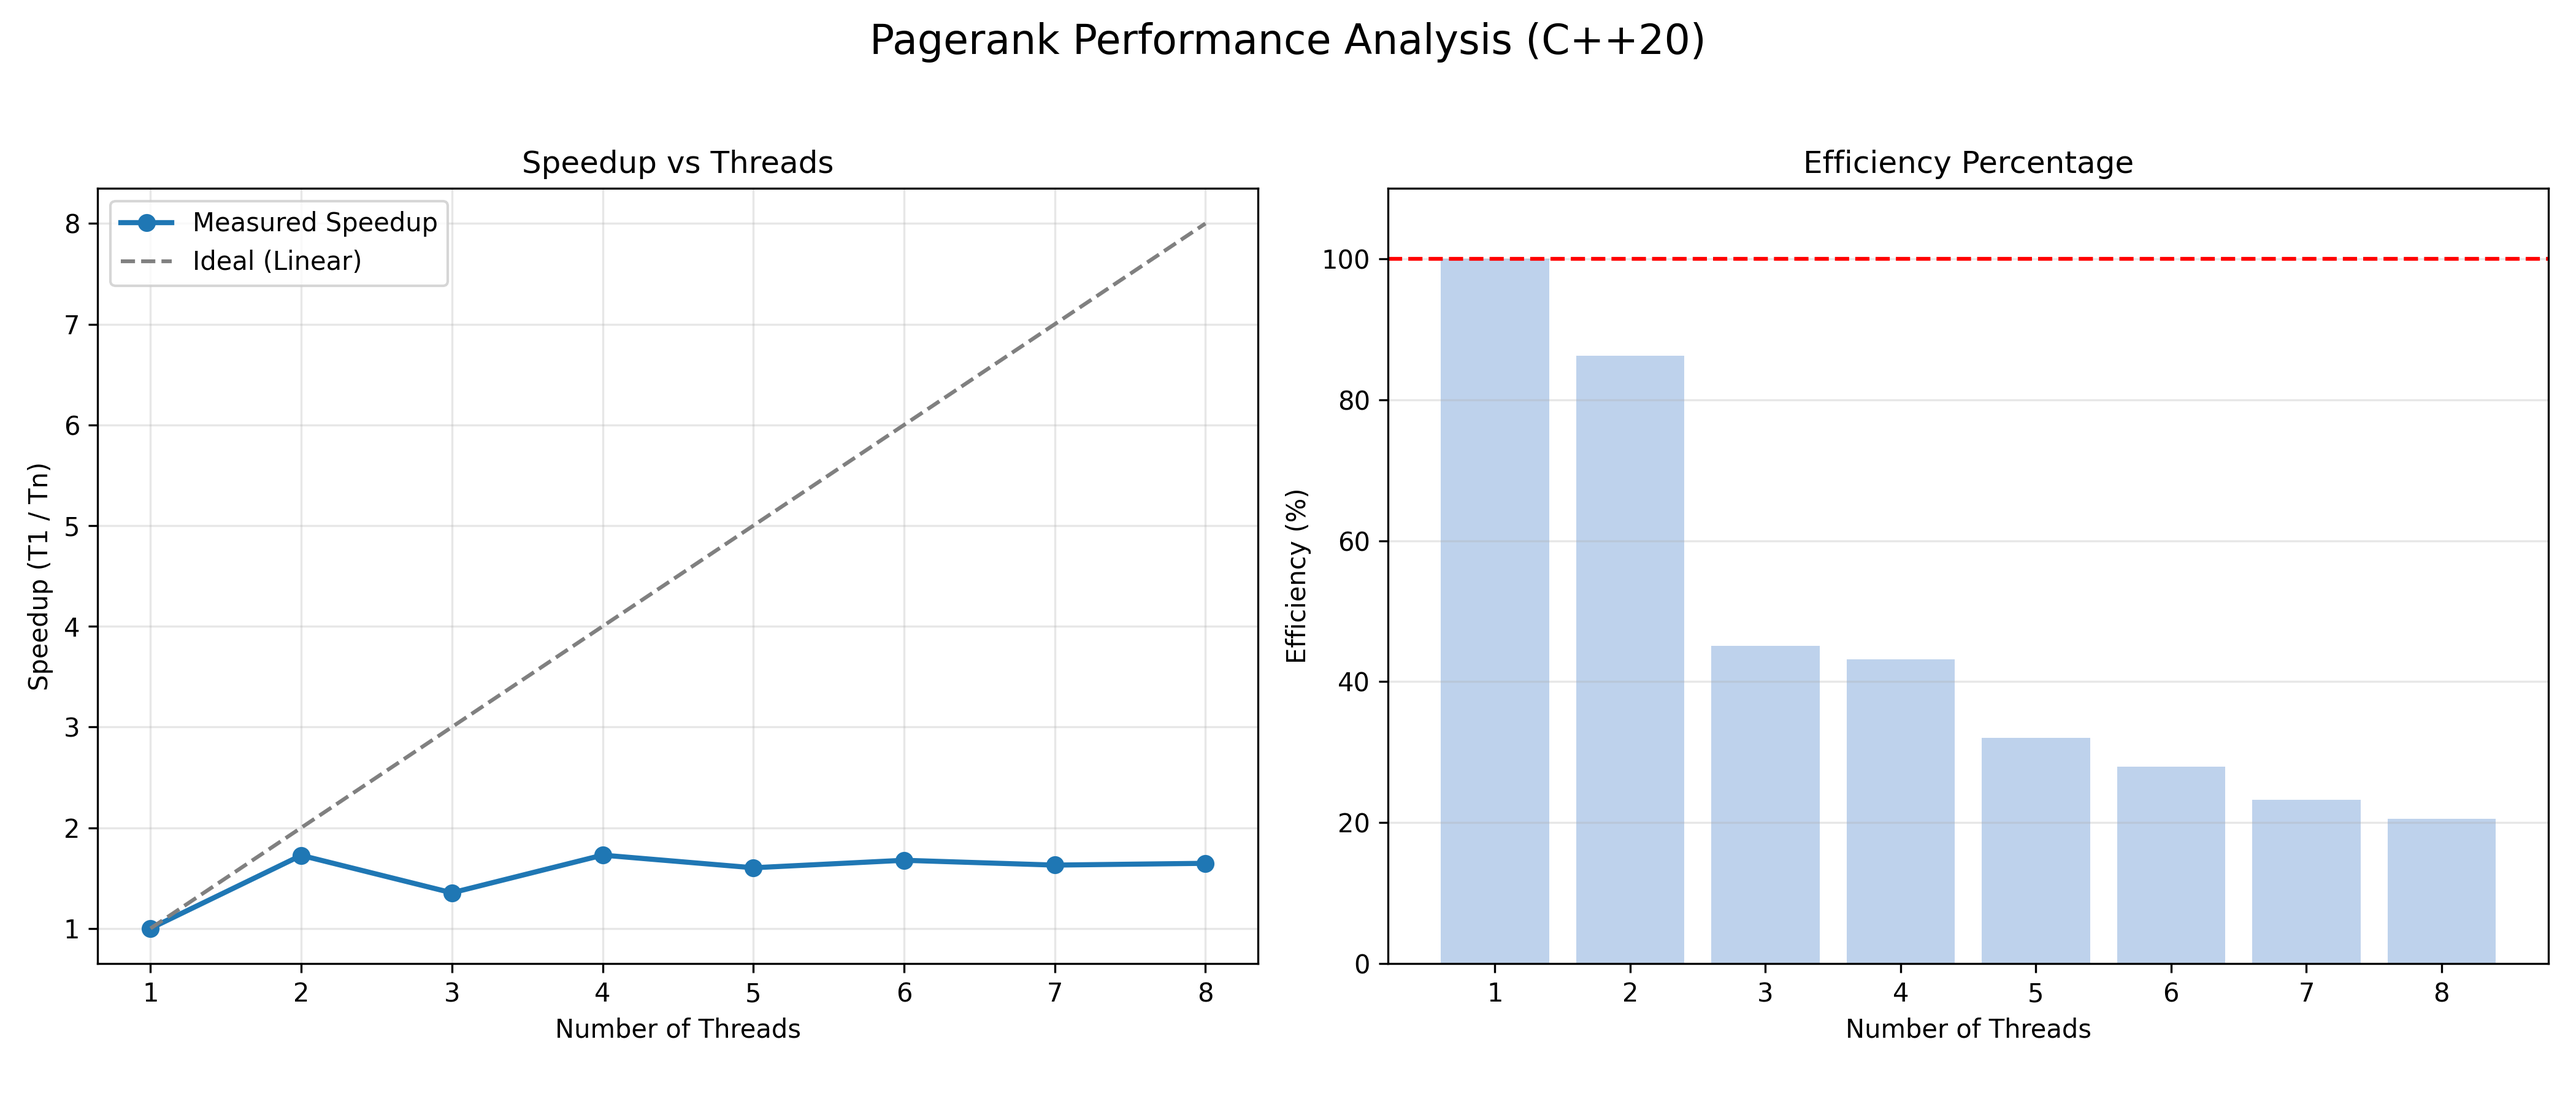
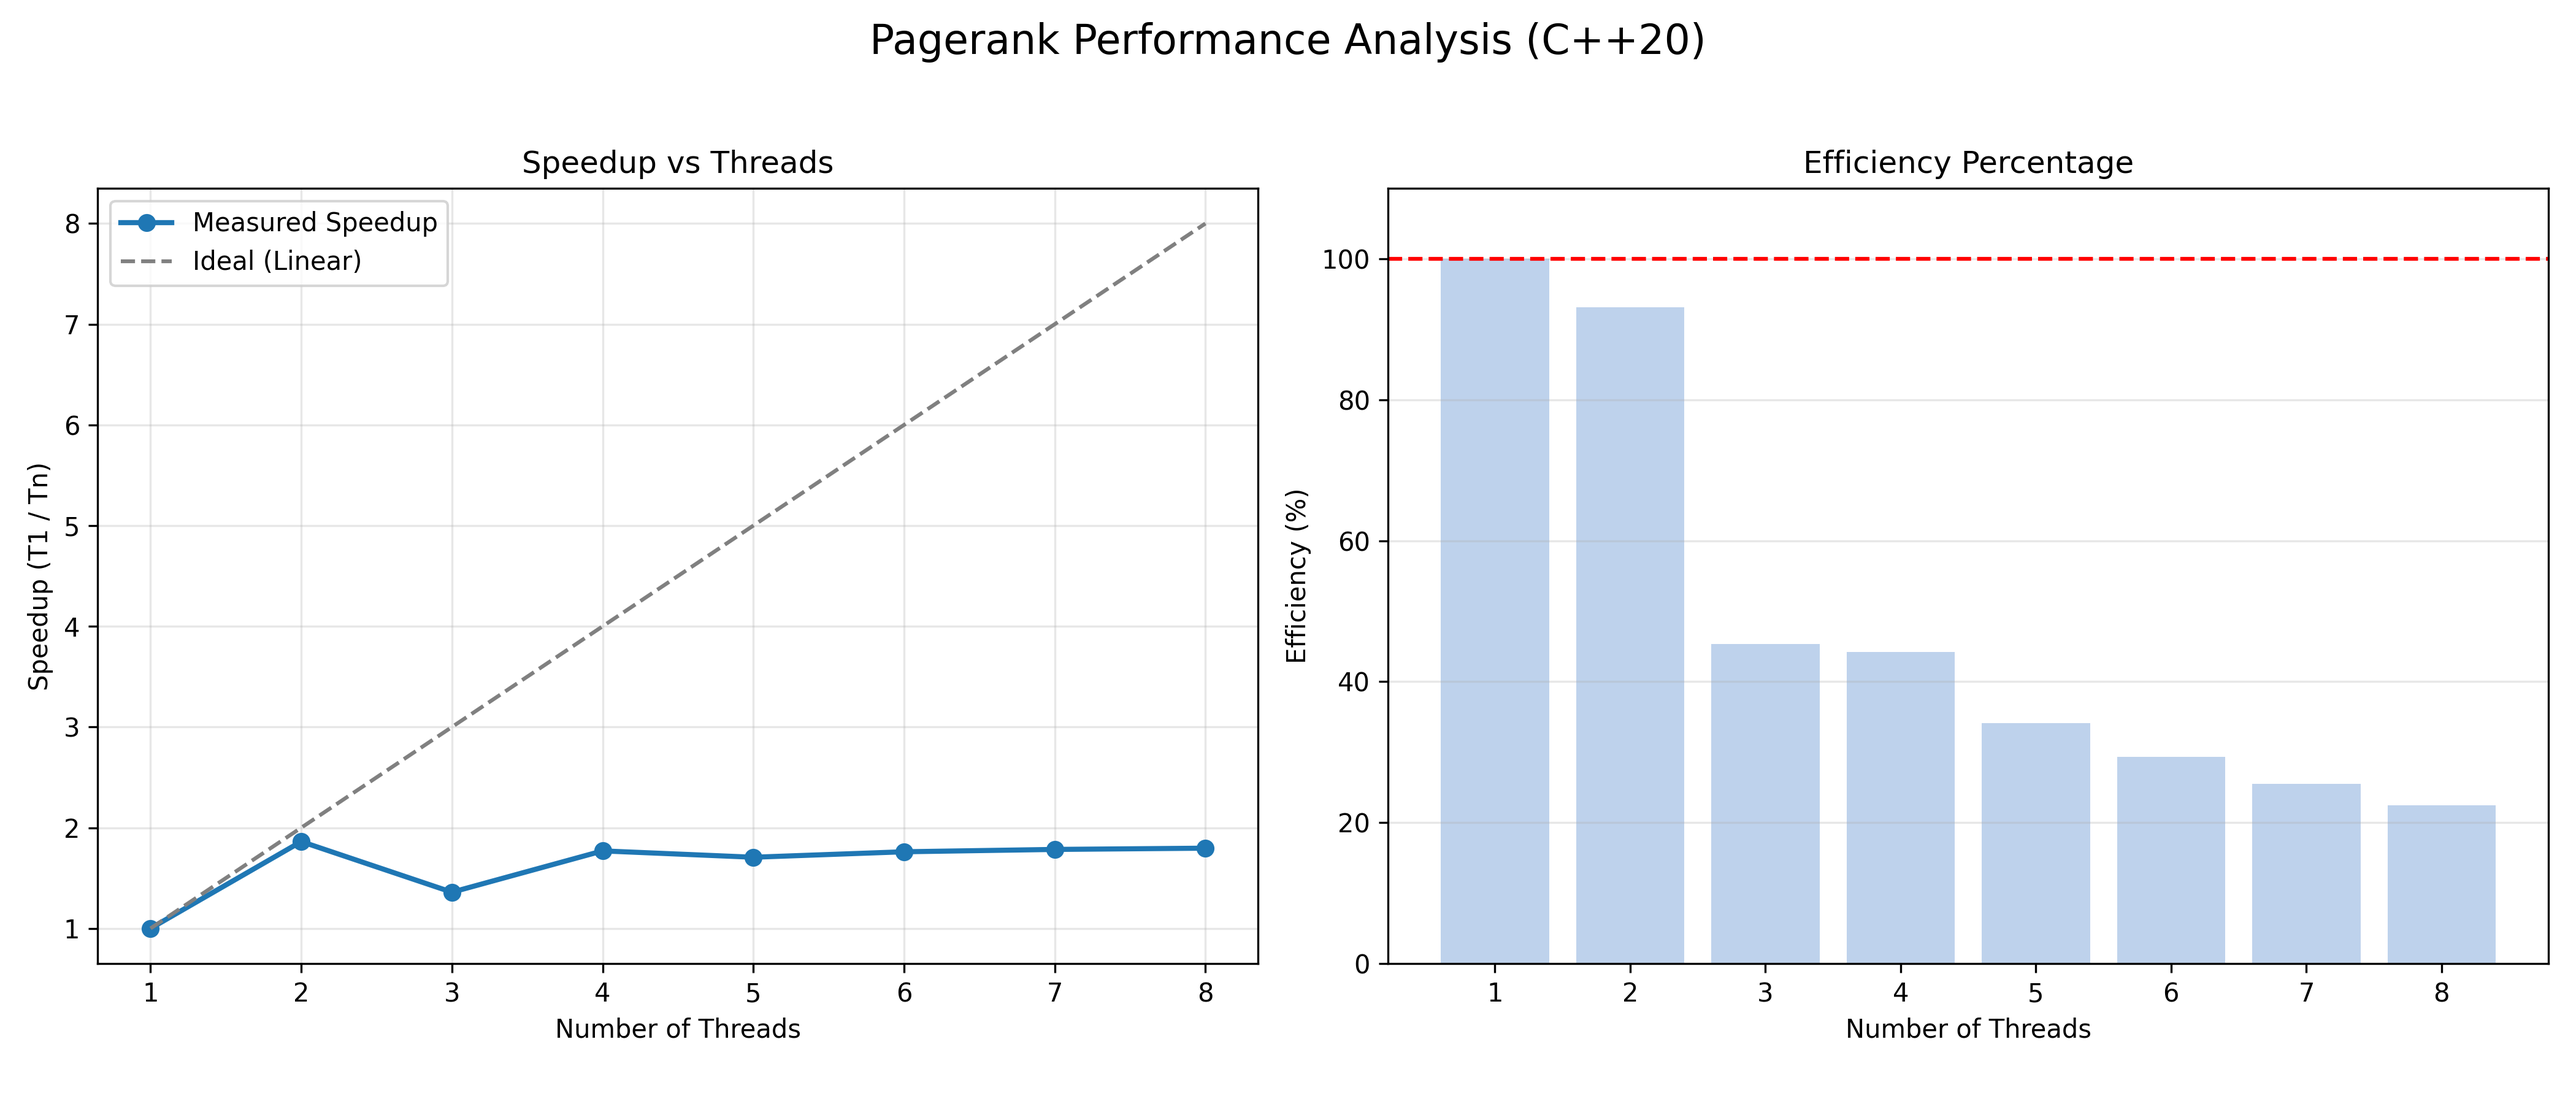
pushing a test picture and updating the readme or deleting some stupid bugs

diff --git a/src/main.cpp b/src/main.cpp
@@ -18,6 +18,16 @@ struct TestMetrics {
     double calc_time;
 };
 
+/**
+ * @brief Helper to find the project root relative to the executable location.
+ * Assumes the binary is in <root>/build/ or <root>/bin/
+ */
+fs::path get_project_root(const char* argv0) {
+    fs::path exe_path = fs::absolute(argv0).parent_path();
+    // Go up one level from 'build' to reach the root
+    return exe_path.parent_path();
+}
+
 int main(int argc, char** argv) {
     try {
         AppConfig config = ConfigParser::parse(argc, argv);
@@ -37,10 +47,6 @@ int main(int argc, char** argv) {
             GraphBuilder builder(config.filepath, t);
             GraphData graph = builder.build();
 
-            auto start_io = std::chrono::high_resolution_clock::now();
-            auto end_io = std::chrono::high_resolution_clock::now();
-            double io_elapsed = std::chrono::duration<double>(end_io - start_io).count(); 
-
             ThreadPool pool(t);
             PageRankEngine engine(graph, pool, config);
 
@@ -49,7 +55,7 @@ int main(int argc, char** argv) {
             auto end_calc = std::chrono::high_resolution_clock::now();
             double calc_elapsed = std::chrono::duration<double>(end_calc - start_calc).count();
 
-            all_stats.push_back({t, 0.0, calc_elapsed}); // Focalizziamoci sul tempo di calcolo
+            all_stats.push_back({t, 0.0, calc_elapsed}); 
 
             if (t == end_t) {
                 ResultsExporter exporter;
@@ -57,17 +63,24 @@ int main(int argc, char** argv) {
             }
         }
 
-
         if (config.test_mode) {
-            // Navigate to the parent directory (project root) from the build folder
-            fs::path project_root = fs::current_path().parent_path();
-            fs::path benchmark_dir = project_root / "benchmarks";
+            fs::path root = get_project_root(argv[0]);
+            fs::path benchmark_dir = root / "benchmarks";
+            fs::path out_file = benchmark_dir / "last_run.csv";
             
-            fs::create_directory(benchmark_dir);
+            // Professional handling: ensure directory exists
+            fs::create_directories(benchmark_dir);
             
-            std::string out_file = (benchmark_dir / "last_run.csv").string();
+            // If the file exists, delete it to ensure a fresh start
+            if (fs::exists(out_file)) {
+                fs::remove(out_file);
+            }
+            
             std::ofstream ofs(out_file);
-            
+            if (!ofs.is_open()) {
+                throw std::runtime_error("Could not create benchmark file at: " + out_file.string());
+            }
+
             ofs << "threads,calc_time,speedup,efficiency\n";
             double t1_time = all_stats[0].calc_time;
 
@@ -76,6 +89,8 @@ int main(int argc, char** argv) {
                 double efficiency = (speedup / s.threads) * 100.0;
                 ofs << s.threads << "," << s.calc_time << "," << speedup << "," << efficiency << "\n";
             }
+            ofs.close();
+
             std::cout << "\n[Success] Benchmark results saved to: " << out_file << "\n";
         }
 

diff --git a/scripts/plot_performance.py b/scripts/plot_performance.py
@@ -3,10 +3,10 @@ import matplotlib.pyplot as plt
 import os
 
 def plot_benchmarks():
-    csv_path = "benchmarks/last_run.csv"
+    csv_path = os.path.join(os.path.dirname(__file__), "..", "benchmarks", "last_run.csv")
     
     if not os.path.exists(csv_path):
-        print(f"Error: {csv_path} not found. Run pagerank with --test first.")
+        print(f"Error: {csv_path} not found. Run the C++ executable with --test first.")
         return
 
     # Caricamento dati

diff --git a/README.md b/README.md
@@ -98,6 +98,37 @@ perf stat -e cycles,instructions,cache-references,cache-misses,L1-dcache-load-mi
 
 ---
 
+
+### Benchmark Example (Real-World Data)
+
+The following chart shows the scalability of this implementation on a mid-2012 laptop. You can see how the **Memory Wall** starts to limit performance as the number of threads increases, despite the tiling optimizations.
+
+![Performance Chart](benchmarks/performance_report.png)
+
+**Benchmark Command:**
+```bash
+./pagerank ../test_data/web-Stanford.mtx --threads 4 --test
+```
+
+**System Specifications (Test Environment):**
+
+* **Processor:** Intel(R) Core(TM) i5-3210M CPU @ 2.50GHz
+* **Cores/Threads:** 2 Physical Cores / 4 Logical Threads
+* **Memory:** 16GB DDR3 1600MHz
+* **OS:** Ubuntu 22.04 LTS 
+* **Cache:** L1 64KB, L2 512KB, L3 3MB
+
+
+### Performance Discussion: The "Two-Thread Cliff"
+As observed in the benchmarks, scalability is nearly linear up to **2 threads** (matching the physical core count) but plateaus or degrades slightly with 4 threads. 
+
+**Why this happens:**
+1. **Hyper-Threading Limits**: PageRank is a high-throughput workload. On a 2-core/4-thread CPU, logical threads compete for the same execution units and L1 cache, leading to diminishing returns.
+2. **Memory Bandwidth Throttling**: The DDR3-1600 bus becomes a bottleneck. Once the maximum memory bandwidth is reached, adding more threads only increases contention and cache-miss penalty.
+3. **Context Switching Overhead**: On older architectures, the overhead of managing 4 threads for memory-bound tasks often outweighs the computational benefits.
+
+---
+
 ## Build Instructions
 
 ```bash
@@ -111,5 +142,4 @@ make -j$(nproc)
 ## License
 
 This project is released under the **MIT License**.
-
 
